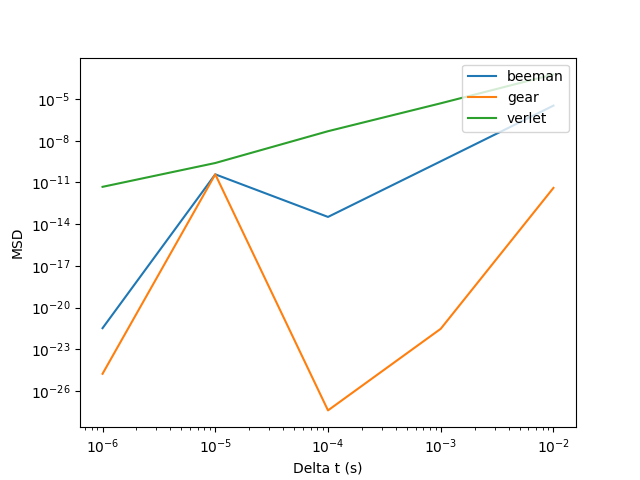
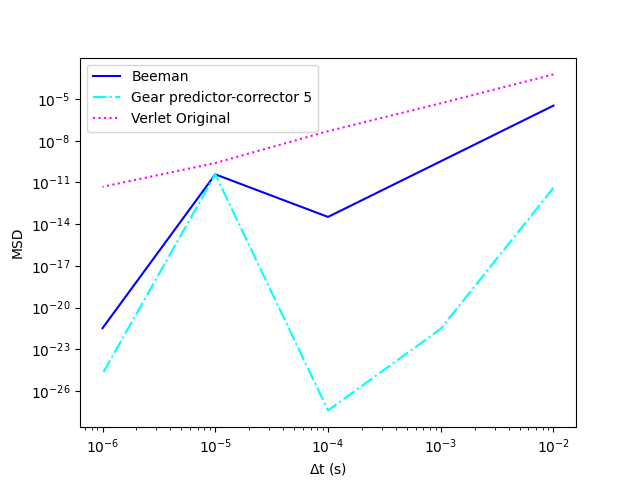
MSD -> MSE

diff --git a/oscillator_graphics.py b/oscillator_graphics.py
@@ -9,7 +9,8 @@ gamma = 100
 A = 1
 delta_ts = [0.01, 0.001, 0.0001, 0.00001, 0.000001]
 oscillators = ['beeman', 'gear', 'verlet']
-params = [('blue', '-'), ('cyan', '-.'), ('magenta', ':'), ('black', '--')]
+osc_graphic_params = [('blue', '-'), ('cyan', '-.'), ('magenta', ':'), ('black', '--')]
+osc_labels = ['Beeman', 'Gear predictor-corrector 5', 'Verlet Original', 'Analítica']
 
 def analytic_position(t):
     return A * np.exp(-(gamma / (2 * m)) * t) * np.cos(np.sqrt(k / m - ((gamma ** 2) / (4 * m ** 2))) * t)
@@ -28,31 +29,32 @@ def comparing():
         t = np.linspace(0, tf, int(tf / delta_t) + 1)
         analytic_values = analytic_position(t)
 
-        # Read the values from the files for all oscillator with the delta_t and compare MSD with the analytic values
+        # Read the values from the files for all oscillator with the delta_t and compare MSE with the analytic values
         # Also graph the position for all oscillators and the anylitic one for the delta_t
         for j, oscillator in enumerate(oscillators):
             positions = []
             for line in lines[j]:
                 positions.append(float(line))
 
-            # Calculate the MSD
-            MSD = np.mean((analytic_values - positions) ** 2)
-            print("MSD for " + str(oscillator) + " with delta_t = " + str(delta_t) + ": " + str(MSD))
+            # Calculate the MSE
+            MSE = np.mean((analytic_values - positions) ** 2)
+            print("MSE for " + str(oscillator) + " with delta_t = " + str(delta_t) + ": " + str(MSE))
 
             # Graph the position
-            plt.plot(t, positions, label=oscillator, color=params[j][0], linestyle=params[j][1])
+            plt.plot(t, positions, label=osc_labels[j], color=osc_graphic_params[j][0], linestyle=osc_graphic_params[j][1])
 
-        plt.plot(t, analytic_values, label="analítico", color=params[3][0], linestyle=params[3][1])
+        plt.plot(t, analytic_values, label=osc_labels[3], color=osc_graphic_params[3][0], linestyle=osc_graphic_params[3][1])
         plt.xlabel('Tiempo (s)')
         plt.ylabel('Posición (m)')
         plt.legend(loc='upper right')
+        plt.show()
         plt.savefig("images/position_" + str(delta_t) + ".png")
         print("Saved position_" + str(delta_t) + ".png")
         plt.close()
 
-    # Graph the MSD for all oscillators with the delta_ts
+    # Graph the MSE for all oscillators with the delta_ts
     for j, oscillator in enumerate(oscillators):
-        MSDs = []
+        MSEs = []
         for i, delta_t in enumerate(delta_ts):
             formatted_delta_t = "{:.6f}".format(delta_t).rstrip('0').rstrip('.')
             file_suffix = str(oscillator) + '_' + formatted_delta_t
@@ -63,19 +65,21 @@ def comparing():
             for line in lines:
                 positions.append(float(line))
 
-            # Calculate the MSD
+            # Calculate the MSE
             t = np.linspace(0, tf, int(tf / delta_t) + 1)
             analytic_values = analytic_position(t)
-            MSD = np.mean((analytic_values - positions) ** 2)
-            MSDs.append(MSD)
+            MSE = np.mean((analytic_values - positions) ** 2)
+            MSEs.append(MSE)
 
-        plt.loglog(delta_ts, MSDs, label=oscillator)
+        plt.loglog(delta_ts, MSEs, label=osc_labels[j], color=osc_graphic_params[j][0], linestyle=osc_graphic_params[j][1])
 
-    plt.xlabel('$\Delta t (s)')
-    plt.ylabel('MSD')
-    plt.legend(loc='upper right')
-    plt.savefig("images/MSD.png")
-    print("Saved MSD.png")
+    plt.xlabel('$\Delta$t (s)')
+    plt.ylabel('MSE')
+    # legend without overlapping (font size 10) upper left
+    plt.legend(loc='upper left', fontsize=10)
+
+    plt.savefig("images/MSE.png")
+    print("Saved MSE.png")
     plt.close()
 
 
